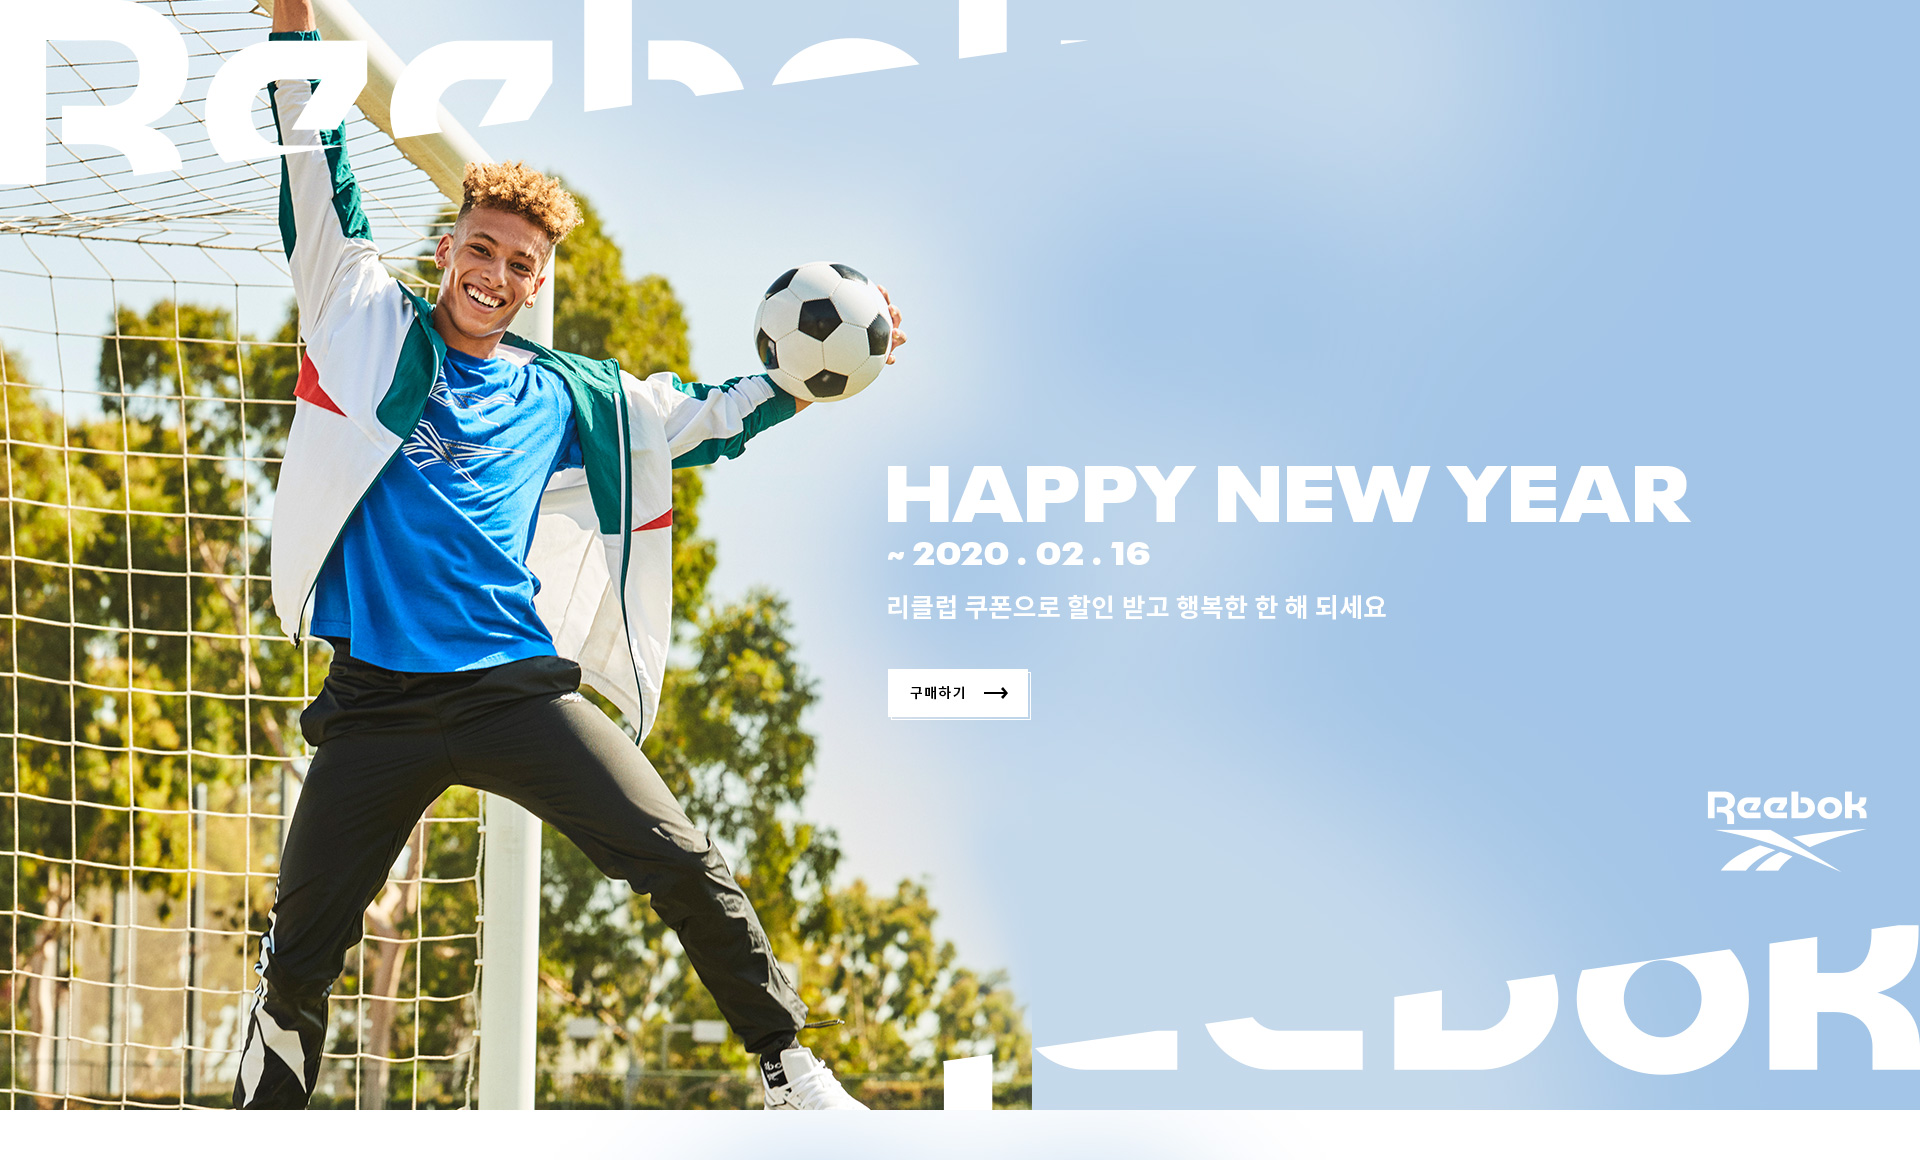
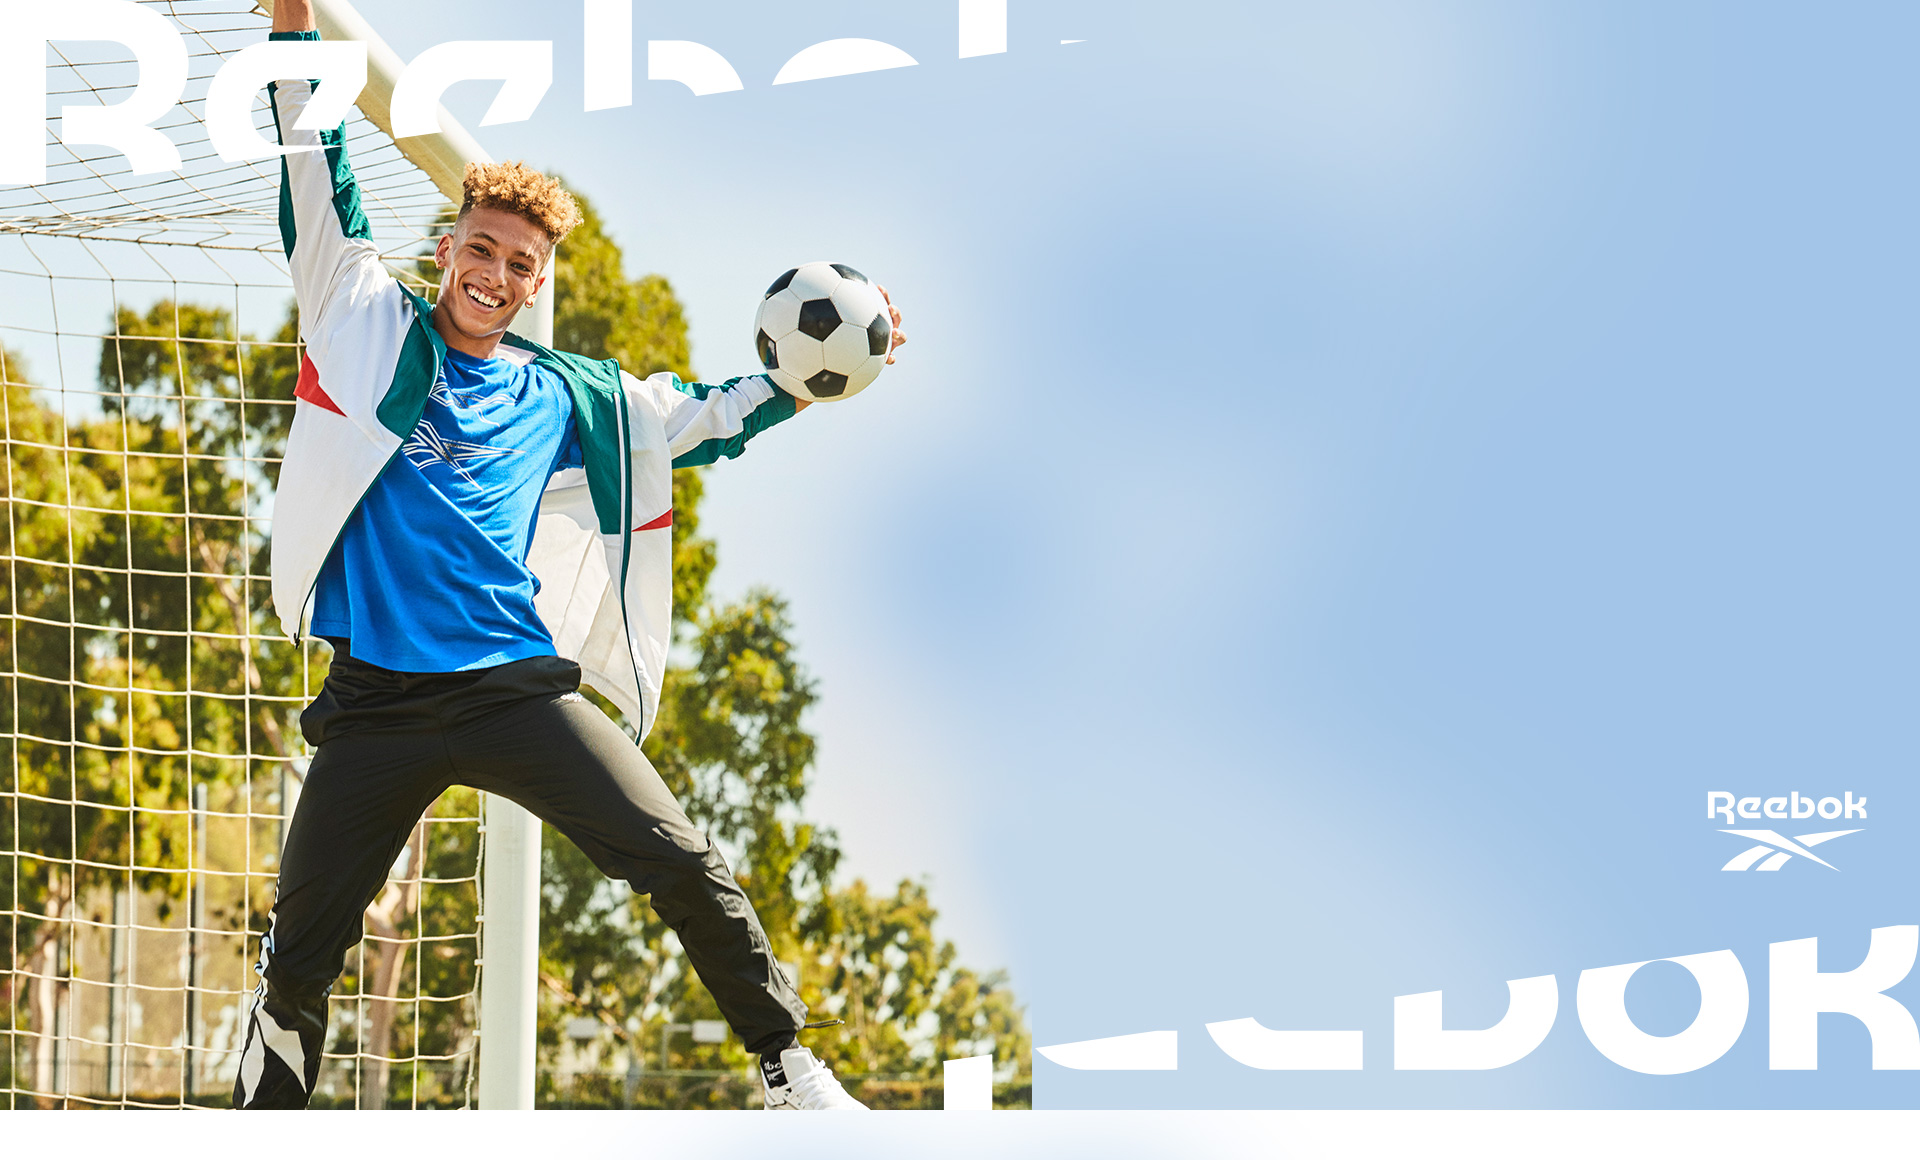
ree_CP_홀리데이 설날 수정

Changed region(s): [[0.4375, 0.4034, 0.875, 0.6207]]

diff --git a/front/html/reebok/html/pn/2020newyear.html b/front/html/reebok/html/pn/2020newyear.html
@@ -1,4 +1,3 @@
-
 			<!-- 0115 holiday_2020_wrap  -->
 			<style type="text/css">
 			    #wrap{
@@ -21,7 +20,7 @@
 				}
 				.ct{
 					position: relative;
-                    /* height: 1160px; */
+                    height: 1160px;
 				}
 				.box:nth-child(2) .ct{height:820px;}
 				.box:nth-child(3) .ct{height:907px;}
@@ -33,31 +32,106 @@
 				}
 				.symmetry img{display: block;}
 
+				
+				.box .ct .txt{
+					position: absolute;
+					top:455px;
+					left:64%;
+					transform: translateX(-50%);
+					white-space: nowrap;
+				}
+				.box .ct .txt h1{
+					font:900 70px/84px 'neueplak-ext';
+					color:#fff;
+				}
+				.box .ct .txt span{
+					font: 900 26px/32px 'neueplak-ext';
+					color:#fff;
+				}
+				.box .ct .txt p{
+					font: 700 21px/26px 'NotoSansKR';
+					color:#fff;
+					margin: 30px 0 0 0;
+				}
+				.box .ct .txt .btn{
+					margin: 38px 0 0 0;
+				}
 
+
+
+				.btn {
+					display: inline-block;
+				}
+				.btn > div {
+					position: relative;
+				}
+				.btn > div::before {
+					border-bottom: 1px solid #fff;
+					border-left: 1px solid #fff;
+					bottom: -4px;
+					height: 3px;
+					left: 3px;
+					width: calc(100%);
+					content: "";
+					display: block;
+					position: absolute;
+				}
+				.btn > div::after {
+					border-right: 1px solid #fff;
+					border-top: 1px solid #fff;
+					height: calc(100%);
+					right: -4px;
+					top: 3px;
+					width: 3px;
+					content: "";
+					display: block;
+					position: absolute;
+				}
+				.btn > div a {
+					width: auto;
+					font: 500 14px/48px 'NotoSansKR';
+					letter-spacing: 0;
+					position: relative;
+					display: block;
+					padding: 0 20px;
+					text-align: center;
+					height: 50px;
+					color: #000;
+					background: #fff;
+					z-index: 2;
+					border: 1px solid #fff;
+					letter-spacing: 0.7px;
+					transition: 0.4s;
+				}
+				.btn > div a .arrow {
+					display: inline-block;
+					width: 24px;
+					height: 11px;
+					margin-left: 25px;
+					background: url(/images/reebok/2019/event/interval_og/arrow.png) no-repeat;
+				}
 			</style>
 			<div class="holiday_2020_01_wrap">
 			    <div id="holiday_2020">
 			        <div class="box">
-                        <div class="ct100">
-							<!-- <img src="/images/reebok/2020/holiday/0115/2001_r_happynewyear_main_DT.jpg" usemap="#Map01" border="0" />
-							<map name="Map01" id="Map01">
-							<area shape="rect" coords="885,665,1038,722" href="#" />
-							</map> -->				
-                            <div class="img">
+                        <div class="ct">
+                            <div class="img symmetry">
                                 <img src="/images/reebok/2020/holiday/0115/2001_r_happynewyear_main_DT.jpg" alt="" usemap="#Map01">
 							</div>
-							<a href="https://shop.reebok.co.kr/RPF010105.action?section=BEST&S_CTGR_CD=02001" style="position: absolute;top:56.8%;left:45.5%;width:10%;height:6%;display: block; background:#fff;opacity: 0;" alt="구매하기" campaign-label="구매하기"></a>
-
-							<!-- <a 
-							href="https://shop.reebok.co.kr/RPF010105.action?section=BEST&S_CTGR_CD=02001" 
-							onfocus="this.blur();" class="link" 
-							style="width: 9%;height: 6%;top: 56.8%;left: 45.5%; position: absolute;display: block;text-indent: -9999px;" 
-							alt="구매하기"
-							campaign-label="구매하기"></a> -->
-                            <!-- <map name="Map01" id="Map01">
-								<area shape="rect" coords="885,666,1031,721" href="https://shop.reebok.co.kr/RPF010105.action?section=BEST&S_CTGR_CD=02001" alt="구매하기" campaign-label="구매하기" 
-									class="btn_entry"/>
-                            </map> -->
+							<div class="txt">
+								<h1>
+									HAPPY NEW YEAR
+								</h1>
+								<span>
+									~ 2020 . 02 . 16
+								</span>
+								<p>리클럽 쿠폰으로 할인 받고 행복한 한 해 되세요</p>
+								<div class="btn">
+									<div>
+										<a href="https://shop.reebok.co.kr/RPF010105.action?section=BEST&S_CTGR_CD=02001" campaign-label="구매하기">구매하기<span class="arrow"></span></a>
+									</div>
+								</div>
+							</div>
                         </div>
     				</div>
 			        <div class="box">

diff --git a/front/html/reebok/2020/campaign/0115/index.html b/front/html/reebok/2020/campaign/0115/index.html
@@ -199,7 +199,7 @@
 				}
 				.ct{
 					position: relative;
-                    /* height: 1160px; */
+                    height: 1160px;
 				}
 				.box:nth-child(2) .ct{height:820px;}
 				.box:nth-child(3) .ct{height:907px;}
@@ -211,31 +211,106 @@
 				}
 				.symmetry img{display: block;}
 
+				
+				.box .ct .txt{
+					position: absolute;
+					top:455px;
+					left:64%;
+					transform: translateX(-50%);
+					white-space: nowrap;
+				}
+				.box .ct .txt h1{
+					font:900 70px/84px 'neueplak-ext';
+					color:#fff;
+				}
+				.box .ct .txt span{
+					font: 900 26px/32px 'neueplak-ext';
+					color:#fff;
+				}
+				.box .ct .txt p{
+					font: 700 21px/26px 'NotoSansKR';
+					color:#fff;
+					margin: 30px 0 0 0;
+				}
+				.box .ct .txt .btn{
+					margin: 38px 0 0 0;
+				}
 
+
+
+				.btn {
+					display: inline-block;
+				}
+				.btn > div {
+					position: relative;
+				}
+				.btn > div::before {
+					border-bottom: 1px solid #fff;
+					border-left: 1px solid #fff;
+					bottom: -4px;
+					height: 3px;
+					left: 3px;
+					width: calc(100%);
+					content: "";
+					display: block;
+					position: absolute;
+				}
+				.btn > div::after {
+					border-right: 1px solid #fff;
+					border-top: 1px solid #fff;
+					height: calc(100%);
+					right: -4px;
+					top: 3px;
+					width: 3px;
+					content: "";
+					display: block;
+					position: absolute;
+				}
+				.btn > div a {
+					width: auto;
+					font: 500 14px/48px 'NotoSansKR';
+					letter-spacing: 0;
+					position: relative;
+					display: block;
+					padding: 0 20px;
+					text-align: center;
+					height: 50px;
+					color: #000;
+					background: #fff;
+					z-index: 2;
+					border: 1px solid #fff;
+					letter-spacing: 0.7px;
+					transition: 0.4s;
+				}
+				.btn > div a .arrow {
+					display: inline-block;
+					width: 24px;
+					height: 11px;
+					margin-left: 25px;
+					background: url(/images/reebok/2019/event/interval_og/arrow.png) no-repeat;
+				}
 			</style>
 			<div class="holiday_2020_01_wrap">
 			    <div id="holiday_2020">
 			        <div class="box">
-                        <div class="ct100">
-							<!-- <img src="/images/reebok/2020/holiday/0115/2001_r_happynewyear_main_DT.jpg" usemap="#Map01" border="0" />
-							<map name="Map01" id="Map01">
-							<area shape="rect" coords="885,665,1038,722" href="#" />
-							</map> -->				
-                            <div class="img">
+                        <div class="ct">
+                            <div class="img symmetry">
                                 <img src="/images/reebok/2020/holiday/0115/2001_r_happynewyear_main_DT.jpg" alt="" usemap="#Map01">
 							</div>
-							<a href="https://shop.reebok.co.kr/RPF010105.action?section=BEST&S_CTGR_CD=02001" style="position: absolute;top:56.8%;left:45.5%;width:10%;height:6%;display: block; background:#fff;opacity: 0;" alt="구매하기" campaign-label="구매하기"></a>
-
-							<!-- <a 
-							href="https://shop.reebok.co.kr/RPF010105.action?section=BEST&S_CTGR_CD=02001" 
-							onfocus="this.blur();" class="link" 
-							style="width: 9%;height: 6%;top: 56.8%;left: 45.5%; position: absolute;display: block;text-indent: -9999px;" 
-							alt="구매하기"
-							campaign-label="구매하기"></a> -->
-                            <!-- <map name="Map01" id="Map01">
-								<area shape="rect" coords="885,666,1031,721" href="https://shop.reebok.co.kr/RPF010105.action?section=BEST&S_CTGR_CD=02001" alt="구매하기" campaign-label="구매하기" 
-									class="btn_entry"/>
-                            </map> -->
+							<div class="txt">
+								<h1>
+									HAPPY NEW YEAR
+								</h1>
+								<span>
+									~ 2020 . 02 . 16
+								</span>
+								<p>리클럽 쿠폰으로 할인 받고 행복한 한 해 되세요</p>
+								<div class="btn">
+									<div>
+										<a href="https://shop.reebok.co.kr/RPF010105.action?section=BEST&S_CTGR_CD=02001" campaign-label="구매하기">구매하기<span class="arrow"></span></a>
+									</div>
+								</div>
+							</div>
                         </div>
     				</div>
 			        <div class="box">
